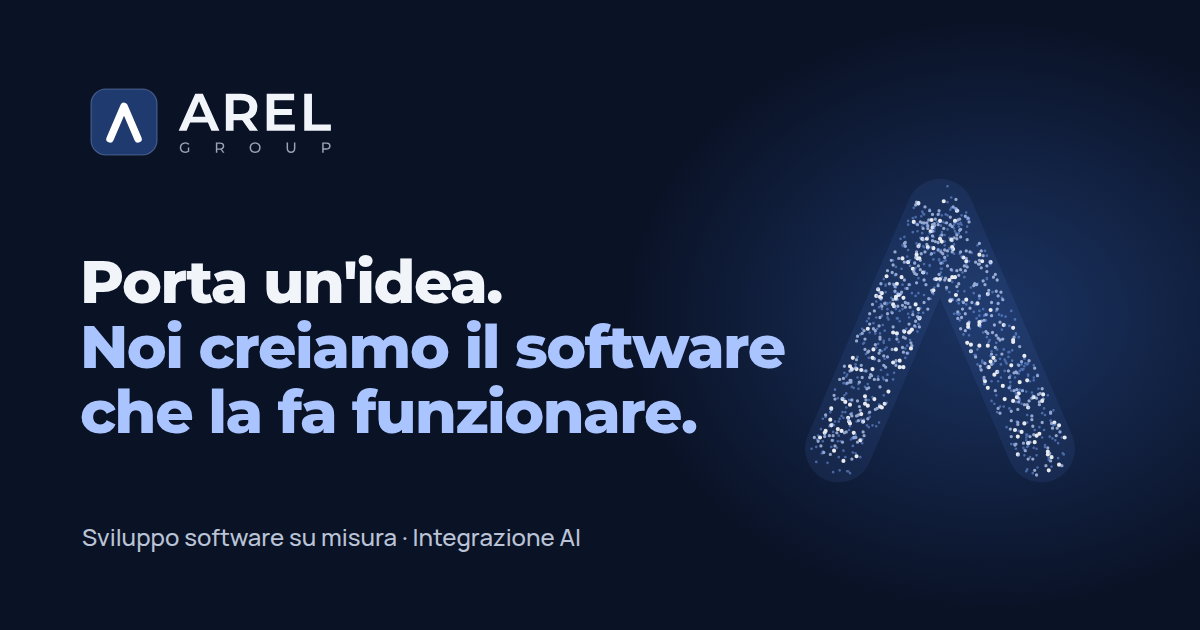
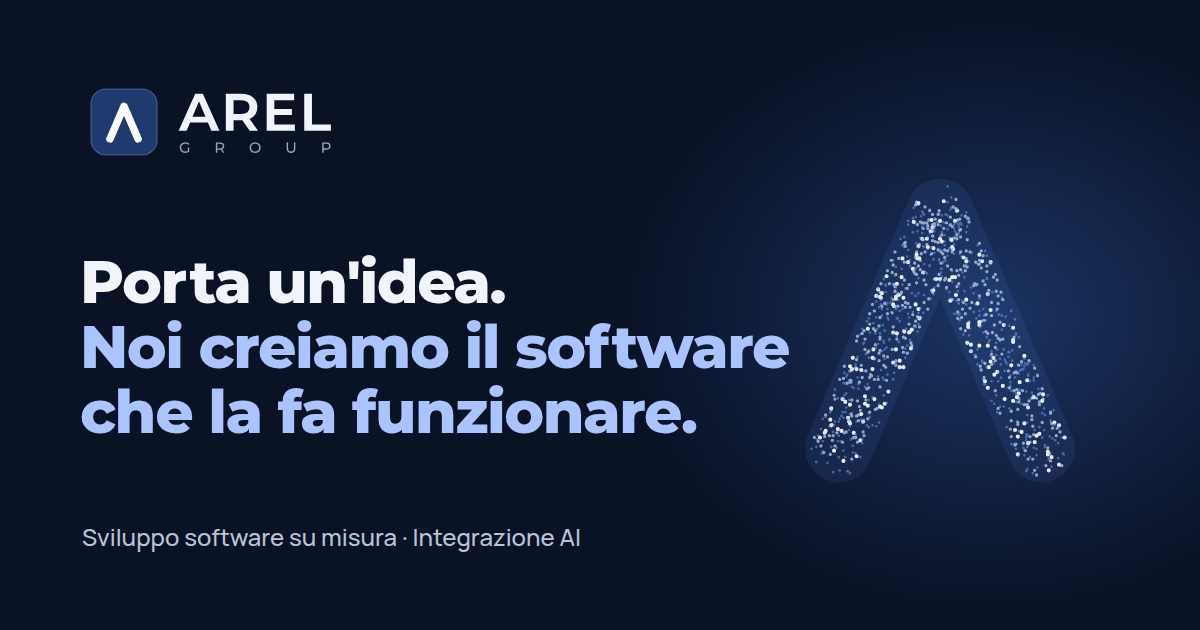
Titoli grandi: spazio tra rt e ft (kern dopo ogni cambio lingua), immagine social aggiornata
Claude-Session: https://claude.ai/code/session_012N9C4dfrNMK5dCcRs4JffT

Changed region(s): [[0.1542, 0.3921, 0.4317, 0.4825], [0.4933, 0.5127, 0.6783, 0.6032]]

diff --git a/src/scripts/site.js b/src/scripts/site.js
@@ -182,6 +182,23 @@ const I18N = {
 let LANG = 'it';
 try { const s = localStorage.getItem('arel-lang'); if (s === 'en' || s === 'it') LANG = s; } catch(e){}
 const T = k => (I18N[LANG][k] ?? I18N.it[k] ?? k);
+/* Montserrat 800 con letter-spacing negativo: "rt" e "ft" si toccano nei titoli grandi.
+   Avvolge la r/f seguita da t in uno span .kp (un filo di margine), dopo ogni cambio lingua.
+   L'HTML statico ha già gli span, così al caricamento non cambia nulla (CLS 0). */
+function kern(){
+  $$('.hero-title, .h2, .cta-title').forEach(root => {
+    const w = document.createTreeWalker(root, NodeFilter.SHOW_TEXT), nodes = [];
+    while (w.nextNode()) { const n = w.currentNode; if (/[rf](?=t)/.test(n.nodeValue) && !n.parentElement.closest('.kp')) nodes.push(n); }
+    nodes.forEach(n => {
+      const f = document.createDocumentFragment();
+      n.nodeValue.split(/([rf](?=t))/).forEach((part, i) => {
+        if (i % 2) { const s = document.createElement('span'); s.className = 'kp'; s.textContent = part; f.appendChild(s); }
+        else if (part) f.appendChild(document.createTextNode(part));
+      });
+      n.replaceWith(f);
+    });
+  });
+}
 /* trusted, author-written strings only */
 function applyLang(){
   document.documentElement.lang = LANG;
@@ -189,6 +206,7 @@ function applyLang(){
   $$('[data-i18n-html]').forEach(el => { el.innerHTML = T(el.dataset.i18nHtml); });
   $$('[data-i18n-ph]').forEach(el => { el.placeholder = T(el.dataset.i18nPh); });
   const lb = $('#langBtn'); lb.textContent = LANG === 'it' ? 'EN' : 'IT'; lb.setAttribute('aria-label', LANG === 'it' ? 'EN · English version' : 'IT · Versione italiana');
+  kern();
   renderPick(curPain, false);
   renderLab();
   if (window.ScrollTrigger) requestAnimationFrame(() => ScrollTrigger.refresh());

diff --git a/src/styles/site.css b/src/styles/site.css
@@ -391,3 +391,5 @@ footer{border-top:1px solid var(--line);padding-block:56px calc(40px + env(safe-
 .a-msg{min-height:76px}
 @media (min-width:900px){.cta-split{grid-template-columns:minmax(0,1fr) minmax(0,1fr);gap:48px}}
 @media (min-width:1360px){.pick{grid-template-columns:minmax(0,.75fr) minmax(0,1.25fr)}.pick-d{max-width:none;font-size:15.5px}.pick-d span{white-space:nowrap}}
+/* r/f seguite da t nei titoli grandi (vedi kern() in site.js) */
+.kp{margin-right:.065em}

diff --git a/DECISIONS.md b/DECISIONS.md
@@ -1,5 +1,8 @@
 # DECISIONS
 
+## 2026-10-08 · Spazio tra "rt" e "ft" nei titoli grandi
+In Montserrat 800 con letter-spacing negativo le coppie "rt" e "ft" si toccano ("Porta", "software", "partire"); ridurre il letter-spacing di tutto il titolo non basta. `kern()` in `site.js` avvolge la r/f seguita da t in `<span class="kp">` (margin-right .065em) dentro `.hero-title`, `.h2`, `.cta-title`, dopo ogni `applyLang()`. L'HTML statico ha già gli stessi span, quindi al caricamento non si sposta nulla (CLS invariato). Testi I18N non toccati. A capo dei titoli identici a 360, 390 e 1440 px, in italiano e in inglese.
+
 ## 2026-10-01 · Copy v3: mix tra v1 e v2
 Dopo la revisione del titolare: hero "Porta un'idea. / Noi creiamo il software che la fa funzionare." con il sottotitolo della v1; Soluzioni a 4 schede (via la scheda e-commerce, il Forward Deployed Engineer prende il suo posto); Problemi con i testi v2 e ogni frase su una riga propria; CTA finale con titolo della v1 ("La tua idea merita un progetto vero.") e modulo compatto su due colonne, in una sola schermata. Restano: analisi gratuita come CTA, prima lettura del Lab, Metodo e FAQ della v2.
 
